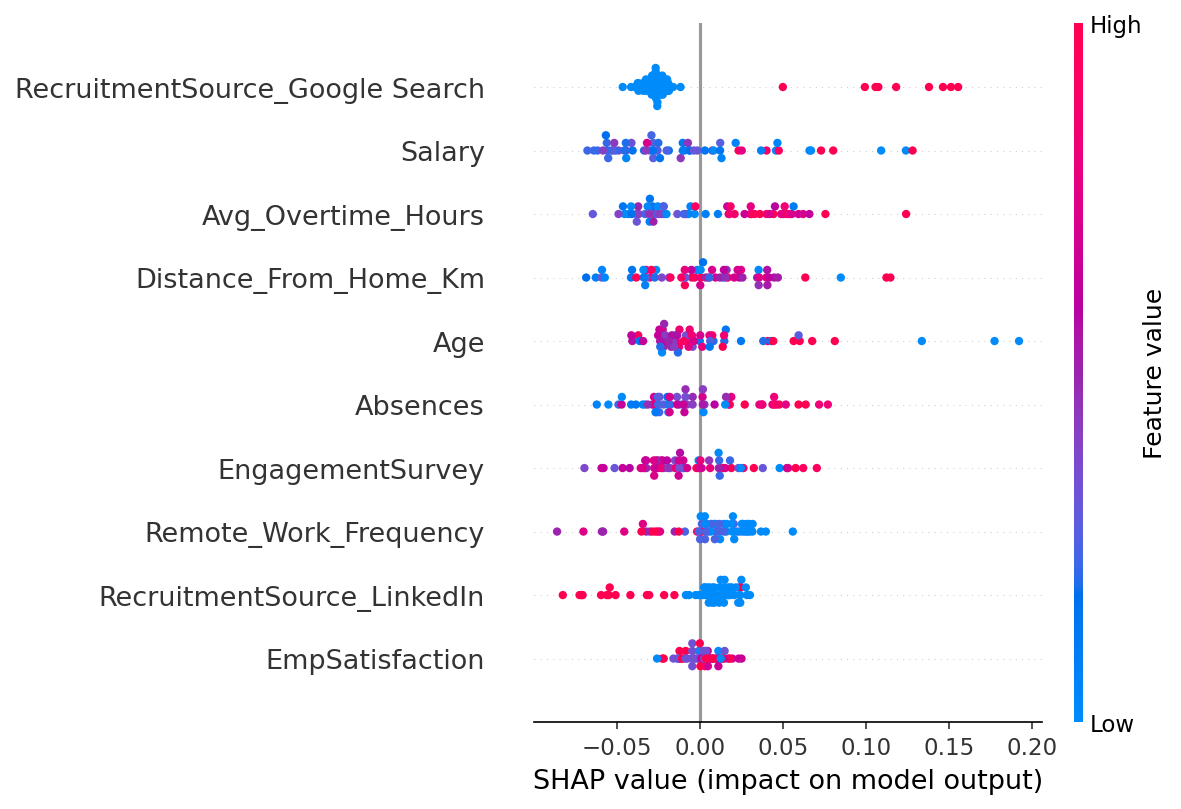
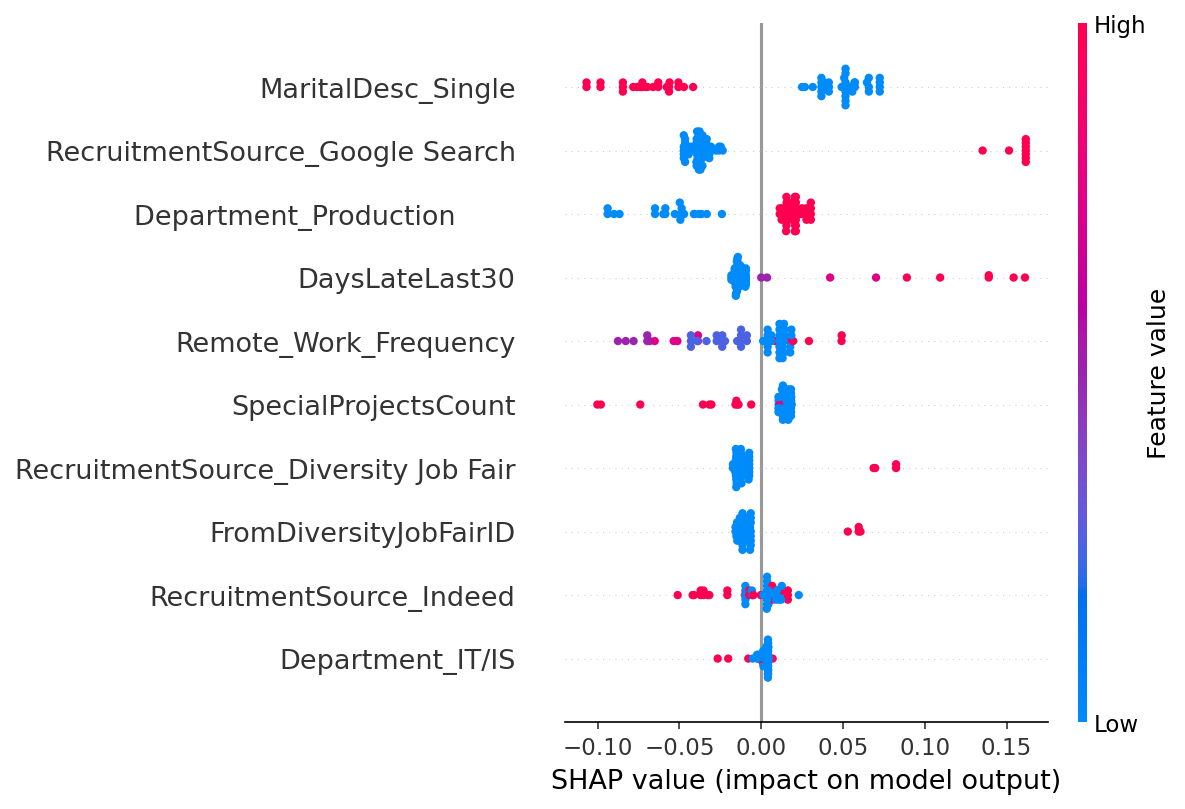
Update explain.py with final model features and cleaner SHAP plots

diff --git a/model/explain.py b/model/explain.py
@@ -1,3 +1,16 @@
+"""
+explain.py is the SHAP Explainability for HR Attrition Model
+
+This script generates SHAP (SHapley Additive exPlanations) plots
+for our final Random Forest model (tuned, 10 domain-informed features).
+
+It produces two outputs in assets/:
+  - shap_summary.png: global view — which features matter most across all employees
+  - shap_individual.png: individual view — why one specific employee was flagged
+
+This is the core of our Explainable AI theme: every prediction comes
+with a human-readable explanation that HR managers can trust and act on.
+"""
 import pandas as pd
 import numpy as np
 import shap
@@ -5,40 +18,62 @@ import matplotlib.pyplot as plt
 from sklearn.ensemble import RandomForestClassifier
 from sklearn.model_selection import train_test_split
 
-# --- Load and prep (same as train.py) ---
+# --- Load and prep (same as model notebook) ---
 df = pd.read_csv("data\\cleaned\\HRDataset_cleaned.csv")
 df['Age'] = df['Age'].abs()
 leakage_cols = [col for col in df.columns if col.startswith('EmploymentStatus_')]
 df = df.drop(columns=leakage_cols)
-df = df.drop(columns=['State'])
-df = df.drop(columns=['EmpStatusID', 'Tenure_Years', 'Years_Since_Last_Review'])
+df = df.drop(columns=['State', 'EmpStatusID', 'Tenure_Years', 'Years_Since_Last_Review'])
 
 X = df.drop(columns=['Termd'])
 y = df['Termd']
 X_train, X_test, y_train, y_test = train_test_split(X, y, test_size=0.2, random_state=42, stratify=y)
 
-# --- Train the frugal model ---
-importances = RandomForestClassifier(n_estimators=100, random_state=42).fit(X_train, y_train).feature_importances_
-top10_cols = pd.Series(importances, index=X_train.columns).nlargest(10).index.tolist()
+# --- Feature set 2 (final, domain-informed) ---
+top10_cols = [
+    "RecruitmentSource_Google Search",
+    "Department_Production       ",
+    "FromDiversityJobFairID",
+    "RecruitmentSource_Diversity Job Fair",
+    "SpecialProjectsCount",
+    "Remote_Work_Frequency",
+    "DaysLateLast30",
+    "MaritalDesc_Single",
+    "Department_IT/IS",
+    "RecruitmentSource_Indeed"
+]
 
-rf = RandomForestClassifier(n_estimators=100, random_state=42)
+# --- Train the final model (RF Tuned) ---
+rf = RandomForestClassifier(
+    n_estimators=200,
+    max_depth=8,
+    min_samples_leaf=5,
+    class_weight='balanced_subsample',
+    random_state=42
+)
 rf.fit(X_train[top10_cols], y_train)
 
 # --- SHAP explanations ---
 explainer = shap.TreeExplainer(rf)
 shap_values = explainer.shap_values(X_test[top10_cols])
 
-# Plot 1: Global feature importance (which features matter most overall)
+# Plot 1: Global feature importance
 print("Saving SHAP summary plot...")
 shap.summary_plot(shap_values[:, :, 1], X_test[top10_cols], show=False)
 plt.tight_layout()
 plt.savefig("assets\\shap_summary.png", dpi=150, bbox_inches='tight')
 plt.close()
 
-# Plot 2: Single prediction explanation (why did we flag this employee?)
+# Plot 2: Single prediction explanation (bar chart — cleaner than force plot)
 print("Saving individual explanation plot...")
-shap.force_plot(explainer.expected_value[1], shap_values[0, :, 1], X_test[top10_cols].iloc[0], matplotlib=True, show=False)
+shap.plots.bar(shap.Explanation(
+    values=shap_values[0, :, 1],
+    base_values=explainer.expected_value[1],
+    data=X_test[top10_cols].iloc[0].values,
+    feature_names=top10_cols
+), show=False)
+plt.tight_layout()
 plt.savefig("assets\\shap_individual.png", dpi=150, bbox_inches='tight')
 plt.close()
 
-print("Done! Check assets/ folder for plots.")
+print("Done! Check assets/ folder for updated plots.")

diff --git a/README.md b/README.md
@@ -100,7 +100,7 @@ streamlit run app.py
 | 4 | Technical documentation | `docs/TECHNICAL_DOCUMENTATION.md` | Done |
 | 5 | Architecture diagram | `docs/ARCHITECTURE.md` | Done |
 | 6 | Executive summary | `docs/EXECUTIVE_SUMMARY.md` | Done |
-| 7 | Demo | `docs/DEMO_SCRIPT.md` | Done |
+| 7 | Demo | `docs/DEMO.md` | Done |
 | 8 | Slides / Pitch | `slides/` | Done |
 
 ## Key tools
